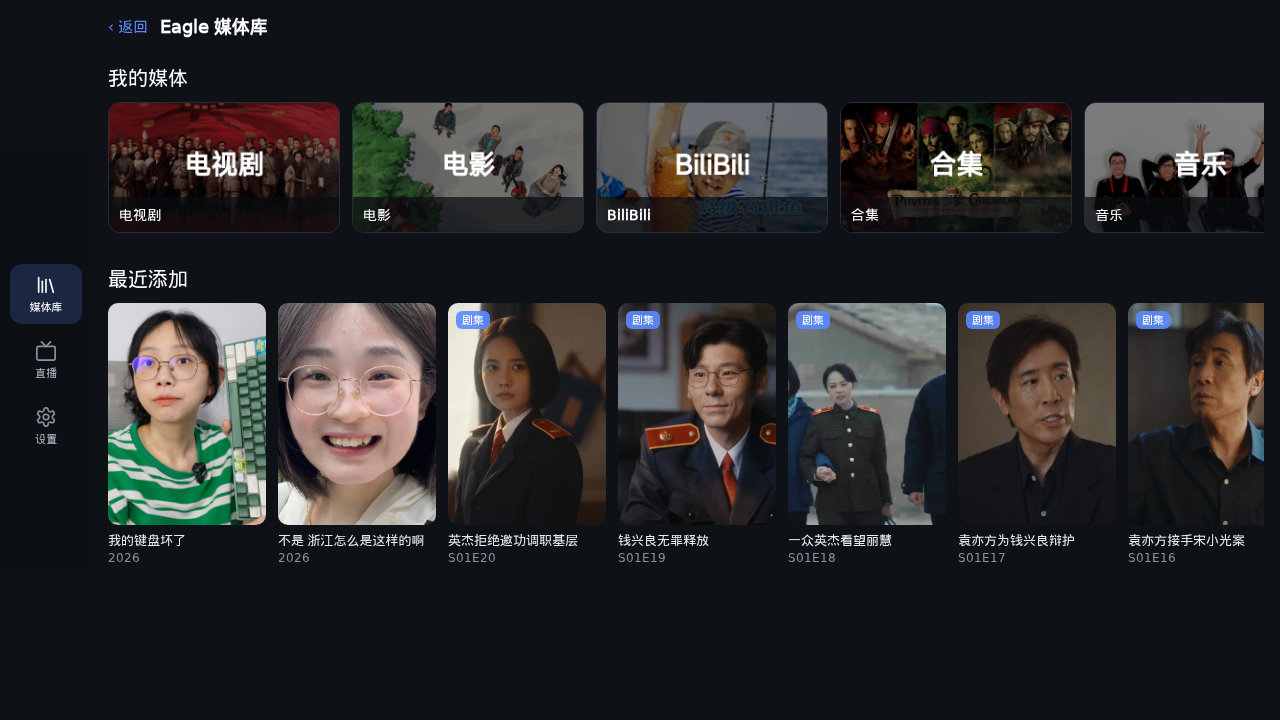
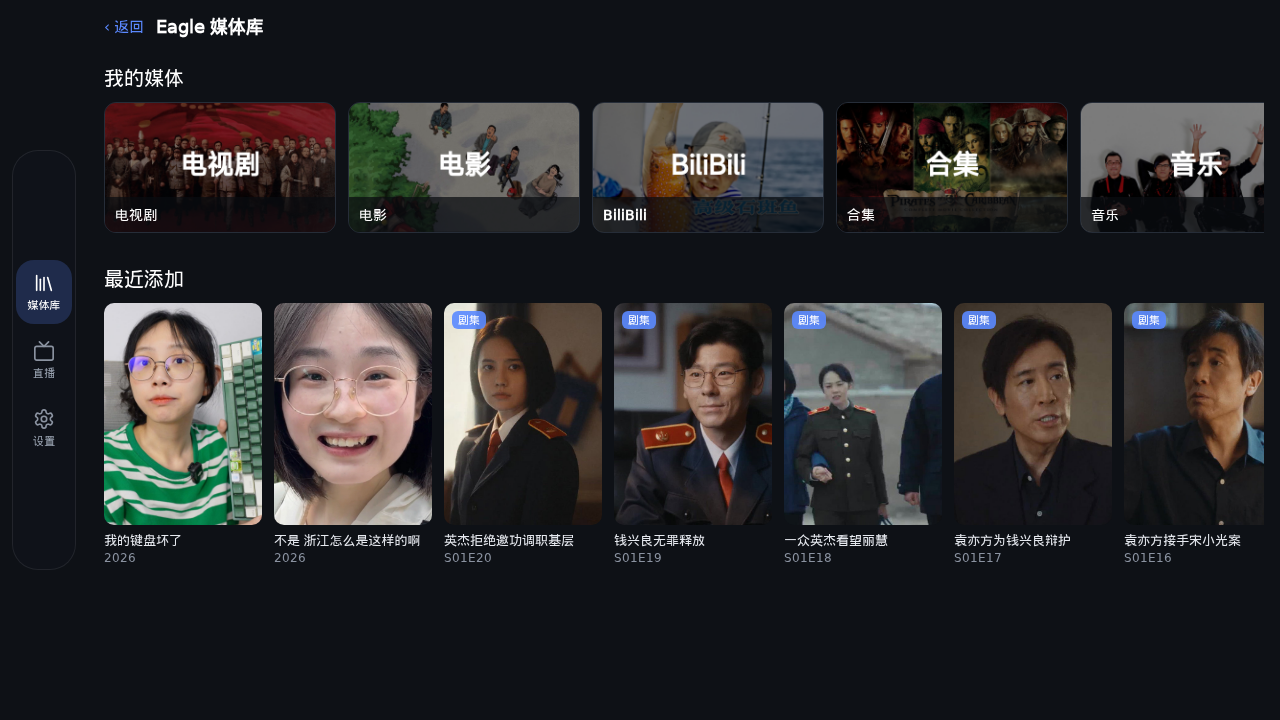
design(nav): floating glass dock — partial height, centered, hover states
The left nav read as an ugly full strip. Redesigned as a floating
glass dock per the design pass (media-shell UI, dials 4/4/4):

- detached from the screen edge (12px), 64px wide, 26px rounded pill
- frosted glass: rgba(16,20,26,0.72) + backdrop blur(18px) saturate
  (web-only via Platform.select), hairline 1px white/8% border
- partial height clamp(280, 60vh, 420), vertically centered — never
  a full viewport column; artwork flows around it
- items: icon-first (lucide 22px) + 11px label, active = soft accent
  pill, desktop hover = white/6% wash (state-driven)
- mobile bottom bar matches the same glass language: floating pill
  detached from the bottom edge

Player: fixed to screen size, video cover-fills (temp default).
E2E dockcheck: 64x420 @ left12/top240/bottom660, radius 26, blur
glass, hover bg verified; libraryflow full pass (mount window
widened to 36s — 7884-item list over WAN takes ~15s).

diff --git a/packages/ui-nav/lib/index.js b/packages/ui-nav/lib/index.js
@@ -1,8 +1,21 @@
 import { jsx as _jsx, jsxs as _jsxs } from "react/jsx-runtime";
+/**
+ * @eagle/ui-nav — application shell navigation plugin.
+ *
+ * One nav, two shapes — both icon-first with a small text label:
+ * - phones: bottom tab bar (thumb reach, safe-area aware)
+ * - desktop: floating left rail over a scrim. The rail is a SAFE AREA
+ *   for artwork: hero images run under it (content is full-bleed),
+ *   while text avoids it via NAV_WIDTH insets.
+ *
+ * Pure RN syntax — identical on web (RNW) and native. Heads pass items +
+ * active id + callbacks; this component knows nothing about routing.
+ */
+import React from 'react';
 import { Platform, Pressable, StyleSheet, Text, View, useWindowDimensions } from 'react-native';
 const DESKTOP_MIN = 768;
-/** Desktop rail width — text insets across screens use this. */
-export const NAV_WIDTH = 92;
+/** Desktop dock width incl. its edge offset — text insets use this. */
+export const NAV_WIDTH = 88;
 /** Bottom bar (mobile) / floating left rail (desktop) shell navigation. */
 export function AppShellNav({ items, activeId }) {
     const { width } = useWindowDimensions();
@@ -16,20 +29,24 @@ export function AppShellNav({ items, activeId }) {
  * text needs to keep clear (see NAV_WIDTH).
  */
 function NavRail({ items, activeId }) {
-    // Partial-height centered panel: clamp(280, 60% of viewport, 420).
+    // Floating glass dock: partial height, vertically centered, detached
+    // from the screen edge. clamp(280, 60% of viewport, 420).
     const { height: vh } = useWindowDimensions();
     const railH = Math.min(420, Math.max(280, Math.round(vh * 0.6)));
-    return (_jsx(View, { style: [styles.rail, { height: railH, top: Math.round((vh - railH) / 2) }], accessibilityRole: "menubar", children: _jsx(View, { style: styles.railStack, children: items.map((it) => (_jsx(NavItemButton, { item: it, active: it.id === activeId, shape: "rail" }, it.id))) }) }));
+    return (_jsx(View, { style: [styles.rail, { height: railH, top: Math.round((vh - railH) / 2) }, webGlass], accessibilityRole: "menubar", children: _jsx(View, { style: styles.railStack, children: items.map((it) => (_jsx(NavItemButton, { item: it, active: it.id === activeId, shape: "rail" }, it.id))) }) }));
 }
 function NavTabs({ items, activeId }) {
-    return (_jsx(View, { style: styles.tabs, accessibilityRole: "menubar", children: items.map((it) => (_jsx(NavItemButton, { item: it, active: it.id === activeId, shape: "tab" }, it.id))) }));
+    return (_jsx(View, { style: [styles.tabs, webGlass], accessibilityRole: "menubar", children: items.map((it) => (_jsx(NavItemButton, { item: it, active: it.id === activeId, shape: "tab" }, it.id))) }));
 }
 function NavItemButton({ item, active, shape }) {
+    // Desktop hover affordance (RNW mouse events; no-op on native).
+    const [hover, setHover] = React.useState(false);
     return (_jsxs(Pressable, { onPress: item.onPress, accessibilityRole: "button", accessibilityState: { selected: active }, style: ({ pressed }) => [
             shape === 'rail' ? styles.railBtn : styles.tabBtn,
             active && (shape === 'rail' ? styles.railBtnActive : styles.tabBtnActive),
+            hover && !active && styles.btnHover,
             pressed && styles.pressed,
-        ], children: [item.icon ? (_jsx(item.icon, { size: shape === 'rail' ? 22 : 20, color: active ? '#ffffff' : '#8b93a1', strokeWidth: 1.8 })) : null, _jsx(Text, { style: [shape === 'rail' ? styles.railLabel : styles.tabLabel, active && styles.labelActive], numberOfLines: 1, children: item.label })] }));
+        ], ...(Platform.OS === 'web' ? { onMouseEnter: () => setHover(true), onMouseLeave: () => setHover(false) } : {}), children: [item.icon ? (_jsx(item.icon, { size: shape === 'rail' ? 22 : 20, color: active ? '#ffffff' : '#8b93a1', strokeWidth: 1.8 })) : null, _jsx(Text, { style: [shape === 'rail' ? styles.railLabel : styles.tabLabel, active && styles.labelActive], numberOfLines: 1, children: item.label })] }));
 }
 /**
  * Page container: nav + content. Desktop content is FULL-BLEED (artwork may
@@ -49,33 +66,45 @@ export function AppShellLayout({ nav, children, edgeToEdge = false, }) {
                     edgeToEdge && { height, overflow: 'hidden', backgroundColor: '#000' },
                 ], children: children })] }));
 }
+/** RNW-only frosted glass (runtime honors it; ViewStyle types lag). */
+const webGlass = Platform.select({ web: { backdropFilter: 'blur(18px) saturate(140%)' }, default: {} });
 const styles = StyleSheet.create({
     shell: { flex: 1, backgroundColor: '#0e1116' },
     content: { flex: 1, backgroundColor: 'transparent' },
     // Desktop: text-safe inset; full-bleed art opts out with negative margins.
     contentDesktop: { paddingLeft: NAV_WIDTH },
     contentMobile: { marginBottom: 64 }, // keep content clear of the bottom tabs
-    // Desktop floating rail: partial-height centered panel, not a full column.
+    // Desktop floating glass dock — detached from the edge, rounded pill,
+    // translucent so artwork reads through, hairline border for edge
+    // definition (no drop-shadow slop, no opaque slab).
     rail: {
-        position: 'absolute', left: 0, width: NAV_WIDTH, zIndex: 10,
+        position: 'absolute', left: 12, width: NAV_WIDTH - 24, zIndex: 10,
         justifyContent: 'center', alignItems: 'center',
-        // Scrim so icons/labels stay legible over artwork; artwork shows
-        // through — the rail claims no opaque background.
-        backgroundColor: 'rgba(11,14,18,0.55)',
+        borderRadius: 26,
+        backgroundColor: 'rgba(16,20,26,0.72)',
+        borderWidth: 1, borderColor: 'rgba(255,255,255,0.08)',
     },
-    railStack: { gap: 6, alignItems: 'center' },
-    railBtn: { alignItems: 'center', gap: 4, paddingVertical: 10, paddingHorizontal: 10, borderRadius: 12, minWidth: 72 },
-    railBtnActive: { backgroundColor: 'rgba(91,137,255,0.20)' },
-    railLabel: { color: '#aeb6c2', fontSize: 11 },
-    // Mobile tabs
+    railStack: { gap: 4, alignItems: 'center' },
+    railBtn: {
+        alignItems: 'center', gap: 4, paddingVertical: 12, paddingHorizontal: 8,
+        borderRadius: 18, width: 56,
+    },
+    railBtnActive: { backgroundColor: 'rgba(91,137,255,0.22)' },
+    railLabel: { color: '#98a1af', fontSize: 11, letterSpacing: 0.2 },
+    // Mobile: floating pill tab bar, detached from the bottom edge —
+    // same glass language as the desktop dock.
     tabs: {
-        position: 'absolute', left: 0, right: 0, bottom: 0, flexDirection: 'row',
-        backgroundColor: 'rgba(13,16,21,0.96)', borderTopWidth: 1, borderTopColor: '#1d232d',
-        paddingBottom: Platform.select({ web: 8, default: 24 }), paddingTop: 6, zIndex: 10,
+        position: 'absolute', left: 16, right: 16,
+        bottom: Platform.select({ web: 14, default: 30 }),
+        flexDirection: 'row', zIndex: 10,
+        borderRadius: 24, paddingVertical: 8, paddingHorizontal: 6,
+        backgroundColor: 'rgba(16,20,26,0.82)',
+        borderWidth: 1, borderColor: 'rgba(255,255,255,0.08)',
     },
-    tabBtn: { flex: 1, alignItems: 'center', gap: 3, paddingVertical: 6, borderRadius: 10 },
-    tabBtnActive: { backgroundColor: 'rgba(91,137,255,0.12)' },
-    tabLabel: { color: '#8b93a1', fontSize: 12 },
+    tabBtn: { flex: 1, alignItems: 'center', gap: 3, paddingVertical: 7, borderRadius: 17 },
+    tabBtnActive: { backgroundColor: 'rgba(91,137,255,0.22)' },
+    tabLabel: { color: '#98a1af', fontSize: 12 },
     labelActive: { color: '#fff', fontWeight: '600' },
+    btnHover: { backgroundColor: 'rgba(255,255,255,0.06)' },
     pressed: { opacity: 0.72, transform: [{ scale: 0.985 }] },
 });

diff --git a/packages/ui-nav/src/index.tsx b/packages/ui-nav/src/index.tsx
@@ -36,8 +36,8 @@ export interface AppShellNavProps {
 }
 
 const DESKTOP_MIN = 768;
-/** Desktop rail width — text insets across screens use this. */
-export const NAV_WIDTH = 92;
+/** Desktop dock width incl. its edge offset — text insets use this. */
+export const NAV_WIDTH = 88;
 
 /** Bottom bar (mobile) / floating left rail (desktop) shell navigation. */
 export function AppShellNav({ items, activeId }: AppShellNavProps): React.JSX.Element {
@@ -53,11 +53,14 @@ export function AppShellNav({ items, activeId }: AppShellNavProps): React.JSX.El
  * text needs to keep clear (see NAV_WIDTH).
  */
 function NavRail({ items, activeId }: AppShellNavProps): React.JSX.Element {
-  // Partial-height centered panel: clamp(280, 60% of viewport, 420).
+  // Floating glass dock: partial height, vertically centered, detached
+  // from the screen edge. clamp(280, 60% of viewport, 420).
   const { height: vh } = useWindowDimensions();
   const railH = Math.min(420, Math.max(280, Math.round(vh * 0.6)));
   return (
-    <View style={[styles.rail, { height: railH, top: Math.round((vh - railH) / 2) }]} accessibilityRole="menubar">
+    <View
+      style={[styles.rail, { height: railH, top: Math.round((vh - railH) / 2) }, webGlass]}
+      accessibilityRole="menubar">
       <View style={styles.railStack}>
         {items.map((it) => (
           <NavItemButton key={it.id} item={it} active={it.id === activeId} shape="rail" />
@@ -69,7 +72,7 @@ function NavRail({ items, activeId }: AppShellNavProps): React.JSX.Element {
 
 function NavTabs({ items, activeId }: AppShellNavProps): React.JSX.Element {
   return (
-    <View style={styles.tabs} accessibilityRole="menubar">
+    <View style={[styles.tabs, webGlass]} accessibilityRole="menubar">
       {items.map((it) => (
         <NavItemButton key={it.id} item={it} active={it.id === activeId} shape="tab" />
       ))}
@@ -78,6 +81,8 @@ function NavTabs({ items, activeId }: AppShellNavProps): React.JSX.Element {
 }
 
 function NavItemButton({ item, active, shape }: { item: NavItem; active: boolean; shape: 'rail' | 'tab' }): React.JSX.Element {
+  // Desktop hover affordance (RNW mouse events; no-op on native).
+  const [hover, setHover] = React.useState(false);
   return (
     <Pressable
       onPress={item.onPress}
@@ -86,8 +91,11 @@ function NavItemButton({ item, active, shape }: { item: NavItem; active: boolean
       style={({ pressed }) => [
         shape === 'rail' ? styles.railBtn : styles.tabBtn,
         active && (shape === 'rail' ? styles.railBtnActive : styles.tabBtnActive),
+        hover && !active && styles.btnHover,
         pressed && styles.pressed,
       ]}
+      /* eslint-disable-next-line */
+      {...(Platform.OS === 'web' ? { onMouseEnter: () => setHover(true), onMouseLeave: () => setHover(false) } : {})}
     >
       {item.icon ? (
         <item.icon
@@ -138,33 +146,46 @@ export function AppShellLayout({
   );
 }
 
+/** RNW-only frosted glass (runtime honors it; ViewStyle types lag). */
+const webGlass = Platform.select({ web: { backdropFilter: 'blur(18px) saturate(140%)' } as object, default: {} as object });
+
 const styles = StyleSheet.create({
   shell: { flex: 1, backgroundColor: '#0e1116' },
   content: { flex: 1, backgroundColor: 'transparent' },
   // Desktop: text-safe inset; full-bleed art opts out with negative margins.
   contentDesktop: { paddingLeft: NAV_WIDTH },
   contentMobile: { marginBottom: 64 }, // keep content clear of the bottom tabs
-  // Desktop floating rail: partial-height centered panel, not a full column.
+  // Desktop floating glass dock — detached from the edge, rounded pill,
+  // translucent so artwork reads through, hairline border for edge
+  // definition (no drop-shadow slop, no opaque slab).
   rail: {
-    position: 'absolute', left: 0, width: NAV_WIDTH, zIndex: 10,
+    position: 'absolute', left: 12, width: NAV_WIDTH - 24, zIndex: 10,
     justifyContent: 'center', alignItems: 'center',
-    // Scrim so icons/labels stay legible over artwork; artwork shows
-    // through — the rail claims no opaque background.
-    backgroundColor: 'rgba(11,14,18,0.55)',
+    borderRadius: 26,
+    backgroundColor: 'rgba(16,20,26,0.72)',
+    borderWidth: 1, borderColor: 'rgba(255,255,255,0.08)',
   },
-  railStack: { gap: 6, alignItems: 'center' },
-  railBtn: { alignItems: 'center', gap: 4, paddingVertical: 10, paddingHorizontal: 10, borderRadius: 12, minWidth: 72 },
-  railBtnActive: { backgroundColor: 'rgba(91,137,255,0.20)' },
-  railLabel: { color: '#aeb6c2', fontSize: 11 },
-  // Mobile tabs
+  railStack: { gap: 4, alignItems: 'center' },
+  railBtn: {
+    alignItems: 'center', gap: 4, paddingVertical: 12, paddingHorizontal: 8,
+    borderRadius: 18, width: 56,
+  },
+  railBtnActive: { backgroundColor: 'rgba(91,137,255,0.22)' },
+  railLabel: { color: '#98a1af', fontSize: 11, letterSpacing: 0.2 },
+  // Mobile: floating pill tab bar, detached from the bottom edge —
+  // same glass language as the desktop dock.
   tabs: {
-    position: 'absolute', left: 0, right: 0, bottom: 0, flexDirection: 'row',
-    backgroundColor: 'rgba(13,16,21,0.96)', borderTopWidth: 1, borderTopColor: '#1d232d',
-    paddingBottom: Platform.select({ web: 8, default: 24 }), paddingTop: 6, zIndex: 10,
+    position: 'absolute', left: 16, right: 16,
+    bottom: Platform.select({ web: 14, default: 30 }),
+    flexDirection: 'row', zIndex: 10,
+    borderRadius: 24, paddingVertical: 8, paddingHorizontal: 6,
+    backgroundColor: 'rgba(16,20,26,0.82)',
+    borderWidth: 1, borderColor: 'rgba(255,255,255,0.08)',
   },
-  tabBtn: { flex: 1, alignItems: 'center', gap: 3, paddingVertical: 6, borderRadius: 10 },
-  tabBtnActive: { backgroundColor: 'rgba(91,137,255,0.12)' },
-  tabLabel: { color: '#8b93a1', fontSize: 12 },
+  tabBtn: { flex: 1, alignItems: 'center', gap: 3, paddingVertical: 7, borderRadius: 17 },
+  tabBtnActive: { backgroundColor: 'rgba(91,137,255,0.22)' },
+  tabLabel: { color: '#98a1af', fontSize: 12 },
   labelActive: { color: '#fff', fontWeight: '600' },
+  btnHover: { backgroundColor: 'rgba(255,255,255,0.06)' },
   pressed: { opacity: 0.72, transform: [{ scale: 0.985 }] },
 });

diff --git a/packages/desktop-app/src/app.css b/packages/desktop-app/src/app.css
@@ -15,7 +15,9 @@ body {
 
 /* ---- web player (PlayerScreen.web.tsx classnames) ---- */
 .player-root { flex: 1; position: relative; background: #000; border: none; padding: 0; width: 100%; cursor: default; }
-.player-video { width: 100%; height: 100%; object-fit: contain; background: #000; }
+.player-video { width: 100%; height: 100%; object-fit: cover; background: #000; }
+/* Temp default: video FILLS the screen (cover). Restore contain when a
+   fit toggle ships. */
 .player-bar {
   position: absolute;
   top: 0;

diff --git a/packages/ui-nav/lib/index.d.ts b/packages/ui-nav/lib/index.d.ts
@@ -31,8 +31,8 @@ export interface AppShellNavProps {
     items: NavItem[];
     activeId: string;
 }
-/** Desktop rail width — text insets across screens use this. */
-export declare const NAV_WIDTH = 92;
+/** Desktop dock width incl. its edge offset — text insets use this. */
+export declare const NAV_WIDTH = 88;
 /** Bottom bar (mobile) / floating left rail (desktop) shell navigation. */
 export declare function AppShellNav({ items, activeId }: AppShellNavProps): React.JSX.Element;
 /**
